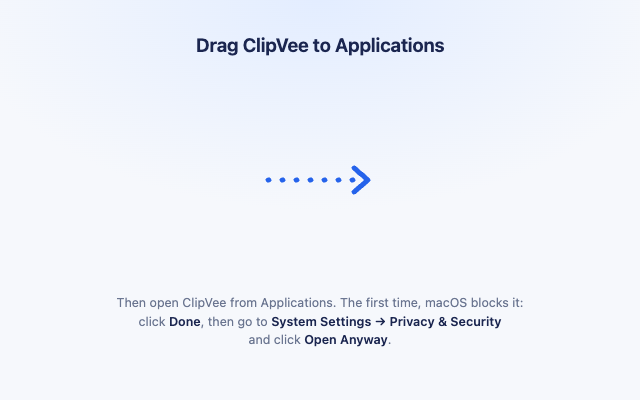
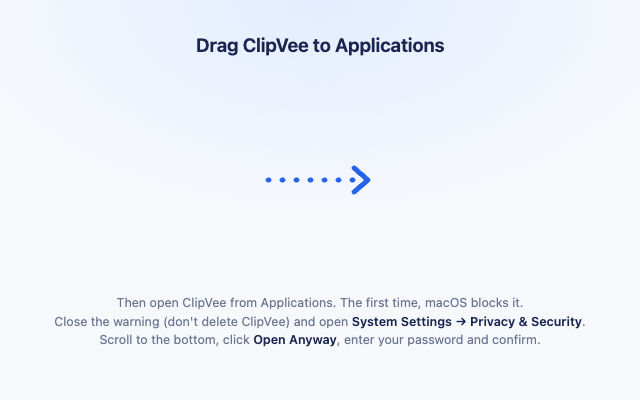
Prepare 1.0.6 with clearer first-launch steps
Word the Open Anyway steps so they fit every supported macOS: close the
warning rather than click Done, which Sonoma doesn't show, then scroll to
the bottom, click Open Anyway and confirm. The welcome window no longer
tells new users to remove ClipVee from the Accessibility list.

Changed region(s): [[0.0938, 0.78, 0.9062, 0.87]]

diff --git a/Design/dmg-background.html b/Design/dmg-background.html
@@ -10,5 +10,5 @@ svg{position:absolute;left:262px;top:160px}
 </style></head><body>
 <h1>Drag ClipVee to Applications</h1>
 <svg width="116" height="40" viewBox="0 0 116 40"><path d="M6 20h96" stroke="#2563EB" stroke-width="5" stroke-linecap="round" stroke-dasharray="1 13"/><path d="M92 8l14 12-14 12" fill="none" stroke="#2563EB" stroke-width="5" stroke-linecap="round" stroke-linejoin="round"/></svg>
-<p>Then open ClipVee from Applications. The first time, macOS blocks it:<br>click <b>Done</b>, then go to <b>System Settings → Privacy &amp; Security</b><br>and click <b>Open Anyway</b>.</p>
+<p>Then open ClipVee from Applications. The first time, macOS blocks it.<br>Close the warning (don't delete ClipVee) and open <b>System Settings → Privacy &amp; Security</b>.<br>Scroll to the bottom, click <b>Open Anyway</b>, enter your password and confirm.</p>
 </body></html>

diff --git a/Maccy/Settings/WelcomeWindowController.swift b/Maccy/Settings/WelcomeWindowController.swift
@@ -64,7 +64,7 @@ struct WelcomeView: View {
           title: "Let ClipVee paste for you",
           description: isTrusted
             ? "Pick a card and ClipVee pastes it into the app you're using."
-            : "Turn on ClipVee in System Settings → Privacy & Security → Accessibility. If it's on already, remove it with the minus button and add it again."
+            : "Click Allow…, then turn on ClipVee in System Settings → Privacy & Security → Accessibility."
         ) {
           if isTrusted {
             Label("On", systemImage: "checkmark.circle.fill")

diff --git a/README.md b/README.md
@@ -40,7 +40,7 @@ Needs macOS 14 Sonoma or later, on Apple silicon or Intel.
    brew install --cask mzbali/tap/clipvee
    ```
 
-2. Open ClipVee. It isn't notarised by Apple yet, so the first time macOS blocks it: click **Done**, then **Open Anyway** in System Settings → Privacy & Security.
+2. Open ClipVee. It isn't notarised by Apple yet, so the first time macOS blocks it. Close the warning without deleting ClipVee, then open System Settings → Privacy & Security, scroll to the bottom and click **Open Anyway**. Enter your password and confirm.
 3. In the welcome window, click **Allow…** and turn on ClipVee under Accessibility. This lets it paste for you.
 
 Then press <kbd>⌘</kbd> <kbd>⇧</kbd> <kbd>V</kbd>. Updates install from inside the app, and your history and settings carry over.

diff --git a/docs/releases/1.0.6.md b/docs/releases/1.0.6.md
@@ -1,0 +1,5 @@
+- The disk image window now walks you through the first-launch approval step, for every supported macOS version.
+- The welcome window's Accessibility instructions are simpler.
+- Pins no longer get a keyboard shortcut when no free key is left (a fix from Maccy).
+
+Requires macOS 14 Sonoma or later on Apple silicon or Intel. This release is not notarised by Apple; the installation guide explains the first-launch approval step.
